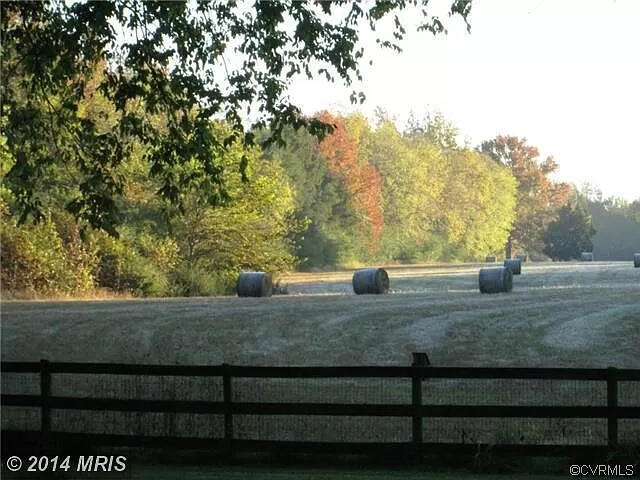
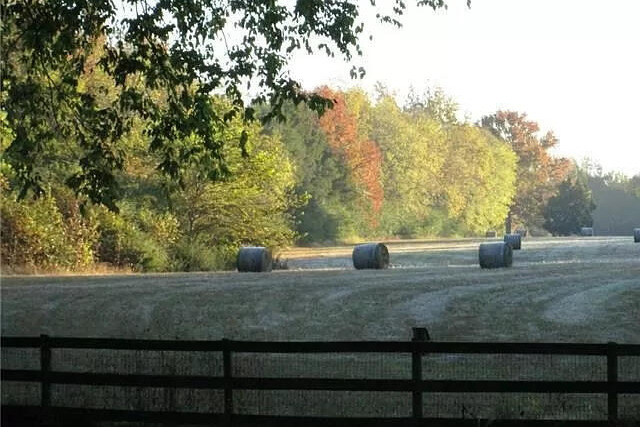
Trim before photos and add photo credits
Crop the white letterbox bands and the MRIS mark from the 16 before
photos (now all about 3:2), make the two columns equal width, and
add a photo credit line at the bottom of the page.

Claude-Session: https://claude.ai/code/session_01J1u4cNZmssTB8Y5pmRUHUf

diff --git a/index.html b/index.html
@@ -19,12 +19,12 @@
   h1 { margin: 0 0 44px; font-size: clamp(48px, 9.2vw, 96px); font-weight: 800; font-stretch: 62%; line-height: 0.9; letter-spacing: -0.01em; }
   .heads, .pair { display: flex; gap: 12px; }
   .heads { position: sticky; top: 0; background: #fff; padding: 10px 0 8px; border-bottom: 3px solid #16181a; font-size: clamp(20px, 3vw, 30px); font-weight: 600; }
-  .heads span:first-child, .b { flex: 1.3333 1 0; }
-  .heads span:last-child, .a { flex: 1.5 1 0; }
+  .heads span, .pair img { flex: 1 1 0; }
   section { margin-top: 44px; }
   .pair { align-items: flex-start; }
-  .pair img { display: block; min-width: 0; width: 0; height: auto; }
+  .pair img { display: block; min-width: 0; width: 0; height: auto; aspect-ratio: 3 / 2; object-fit: cover; }
   h2 { margin: 10px 0 0; font-size: 17px; font-weight: 500; color: #4a4f55; }
+  footer { margin-top: 64px; padding-top: 16px; border-top: 1px solid #d5d7da; font-size: 14px; color: #4a4f55; }
   @media (max-width: 600px) { .wrap { padding: 40px 14px 64px; } h1 { margin-bottom: 28px; } .heads, .pair { gap: 6px; } section { margin-top: 28px; } h2 { font-size: 15px; } }
 </style>
 </head>
@@ -35,117 +35,118 @@
   <main>
     <section>
       <div class="pair">
-        <img class="b" src="images/01-before.jpg" width="640" height="480" alt="Front of house, before">
+        <img class="b" src="images/01-before.jpg" width="640" height="426" alt="Front of house, before">
         <img class="a" src="images/01-after.jpg" width="1024" height="682" alt="Front of house, after">
       </div>
       <h2>Front of house</h2>
     </section>
     <section>
       <div class="pair">
-        <img class="b" src="images/02-before.jpg" width="640" height="480" alt="Powder room, before">
+        <img class="b" src="images/02-before.jpg" width="640" height="426" alt="Powder room, before">
         <img class="a" src="images/02-after.jpg" width="1024" height="682" alt="Powder room, after">
       </div>
       <h2>Powder room</h2>
     </section>
     <section>
       <div class="pair">
-        <img class="b" src="images/03-before.jpg" width="640" height="480" alt="Dining room, before" loading="lazy">
+        <img class="b" src="images/03-before.jpg" width="640" height="426" alt="Dining room, before" loading="lazy">
         <img class="a" src="images/03-after.jpg" width="1024" height="682" alt="Dining room, after" loading="lazy">
       </div>
       <h2>Dining room</h2>
     </section>
     <section>
       <div class="pair">
-        <img class="b" src="images/04-before.jpg" width="640" height="480" alt="Kitchen, before" loading="lazy">
+        <img class="b" src="images/04-before.jpg" width="640" height="426" alt="Kitchen, before" loading="lazy">
         <img class="a" src="images/04-after.jpg" width="1024" height="682" alt="Kitchen, after" loading="lazy">
       </div>
       <h2>Kitchen</h2>
     </section>
     <section>
       <div class="pair">
-        <img class="b" src="images/05-before.jpg" width="640" height="480" alt="The field, before" loading="lazy">
+        <img class="b" src="images/05-before.jpg" width="640" height="426" alt="The field, before" loading="lazy">
         <img class="a" src="images/05-after.jpg" width="1024" height="682" alt="The field, after" loading="lazy">
       </div>
       <h2>The field</h2>
     </section>
     <section>
       <div class="pair">
-        <img class="b" src="images/06-before.jpg" width="640" height="480" alt="Study, before" loading="lazy">
+        <img class="b" src="images/06-before.jpg" width="640" height="426" alt="Study, before" loading="lazy">
         <img class="a" src="images/06-after.jpg" width="1024" height="682" alt="Study, after" loading="lazy">
       </div>
       <h2>Study</h2>
     </section>
     <section>
       <div class="pair">
-        <img class="b" src="images/07-before.jpg" width="640" height="480" alt="Bedroom, before" loading="lazy">
+        <img class="b" src="images/07-before.jpg" width="640" height="426" alt="Bedroom, before" loading="lazy">
         <img class="a" src="images/07-after.jpg" width="1024" height="682" alt="Bedroom, after" loading="lazy">
       </div>
       <h2>Bedroom</h2>
     </section>
     <section>
       <div class="pair">
-        <img class="b" src="images/08-before.jpg" width="640" height="480" alt="Living room, before" loading="lazy">
+        <img class="b" src="images/08-before.jpg" width="640" height="426" alt="Living room, before" loading="lazy">
         <img class="a" src="images/08-after.jpg" width="1024" height="682" alt="Living room, after" loading="lazy">
       </div>
       <h2>Living room</h2>
     </section>
     <section>
       <div class="pair">
-        <img class="b" src="images/09-before.jpg" width="640" height="480" alt="Hall bath, before" loading="lazy">
+        <img class="b" src="images/09-before.jpg" width="640" height="426" alt="Hall bath, before" loading="lazy">
         <img class="a" src="images/09-after.jpg" width="1024" height="682" alt="Hall bath, after" loading="lazy">
       </div>
       <h2>Hall bath</h2>
     </section>
     <section>
       <div class="pair">
-        <img class="b" src="images/10-before.jpg" width="640" height="480" alt="Attic office, before" loading="lazy">
+        <img class="b" src="images/10-before.jpg" width="640" height="426" alt="Attic office, before" loading="lazy">
         <img class="a" src="images/10-after.jpg" width="1024" height="682" alt="Attic office, after" loading="lazy">
       </div>
       <h2>Attic office</h2>
     </section>
     <section>
       <div class="pair">
-        <img class="b" src="images/11-before.jpg" width="640" height="480" alt="Upstairs bath, before" loading="lazy">
+        <img class="b" src="images/11-before.jpg" width="640" height="426" alt="Upstairs bath, before" loading="lazy">
         <img class="a" src="images/11-after.jpg" width="1024" height="682" alt="Upstairs bath, after" loading="lazy">
       </div>
       <h2>Upstairs bath</h2>
     </section>
     <section>
       <div class="pair">
-        <img class="b" src="images/12-before.jpg" width="640" height="480" alt="The pasture, before" loading="lazy">
+        <img class="b" src="images/12-before.jpg" width="640" height="426" alt="The pasture, before" loading="lazy">
         <img class="a" src="images/12-after.jpg" width="1024" height="682" alt="The pasture, after" loading="lazy">
       </div>
       <h2>The pasture</h2>
     </section>
     <section>
       <div class="pair">
-        <img class="b" src="images/13-before.jpg" width="640" height="480" alt="Sitting room, before" loading="lazy">
+        <img class="b" src="images/13-before.jpg" width="640" height="426" alt="Sitting room, before" loading="lazy">
         <img class="a" src="images/13-after.jpg" width="1024" height="682" alt="Sitting room, after" loading="lazy">
       </div>
       <h2>Sitting room</h2>
     </section>
     <section>
       <div class="pair">
-        <img class="b" src="images/14-before.jpg" width="640" height="480" alt="Back of house, before" loading="lazy">
+        <img class="b" src="images/14-before.jpg" width="640" height="426" alt="Back of house, before" loading="lazy">
         <img class="a" src="images/14-after.jpg" width="1024" height="682" alt="Back of house, after" loading="lazy">
       </div>
       <h2>Back of house</h2>
     </section>
     <section>
       <div class="pair">
-        <img class="b" src="images/15-before.jpg" width="640" height="480" alt="Guest bedroom, before" loading="lazy">
+        <img class="b" src="images/15-before.jpg" width="640" height="426" alt="Guest bedroom, before" loading="lazy">
         <img class="a" src="images/15-after.jpg" width="1024" height="682" alt="Guest bedroom, after" loading="lazy">
       </div>
       <h2>Guest bedroom</h2>
     </section>
     <section>
       <div class="pair">
-        <img class="b" src="images/16-before.jpg" width="640" height="480" alt="Library, before" loading="lazy">
+        <img class="b" src="images/16-before.jpg" width="640" height="426" alt="Library, before" loading="lazy">
         <img class="a" src="images/16-after.jpg" width="1024" height="682" alt="Library, after" loading="lazy">
       </div>
       <h2>Library</h2>
     </section>
   </main>
+  <footer>Before photos &copy; 2014 MRIS. After photos &copy; CVRMLS.</footer>
 </div>
 </body>
 </html>
